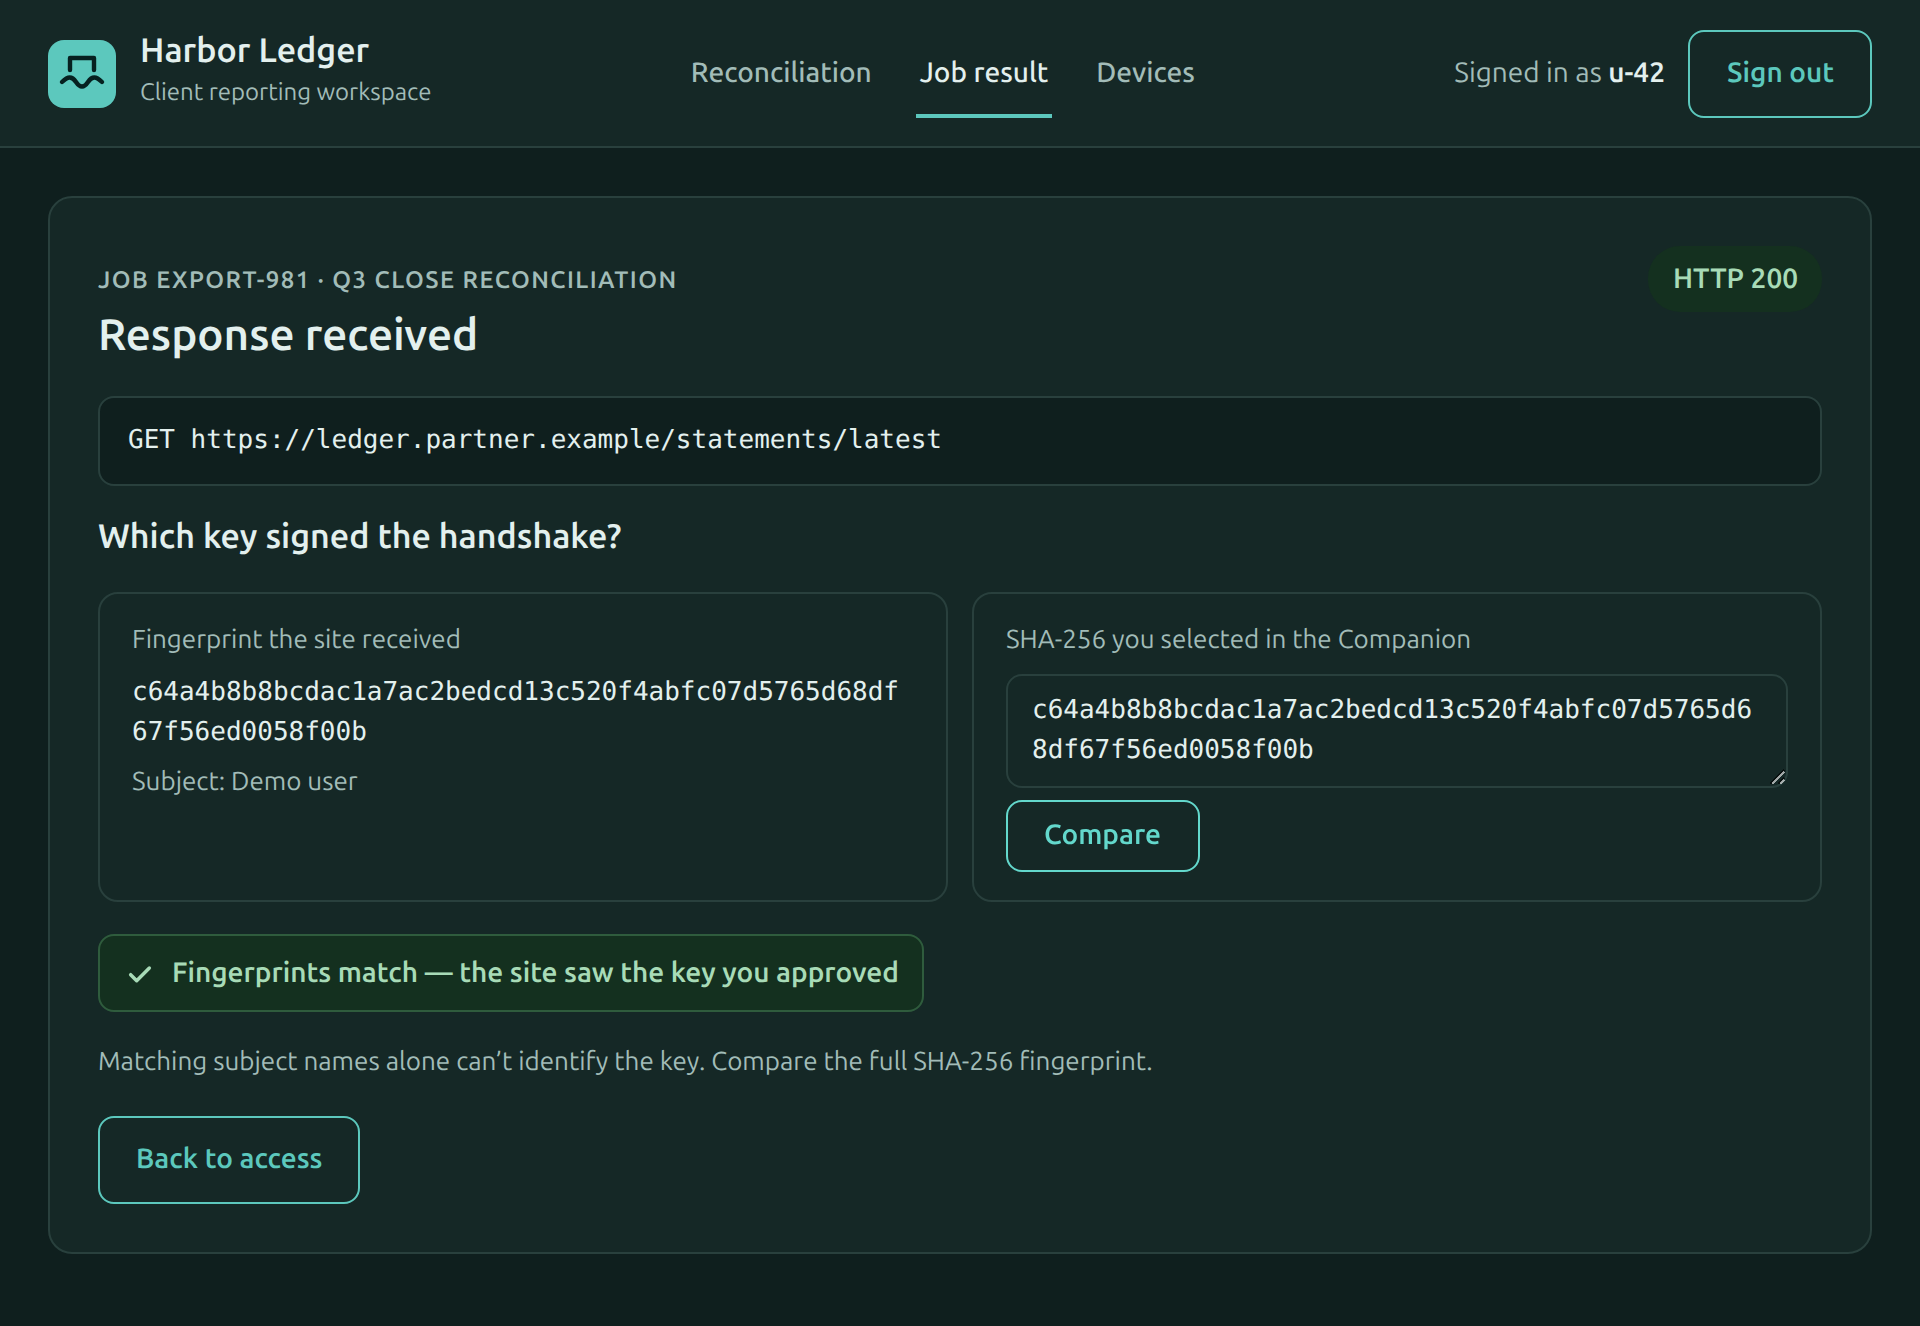
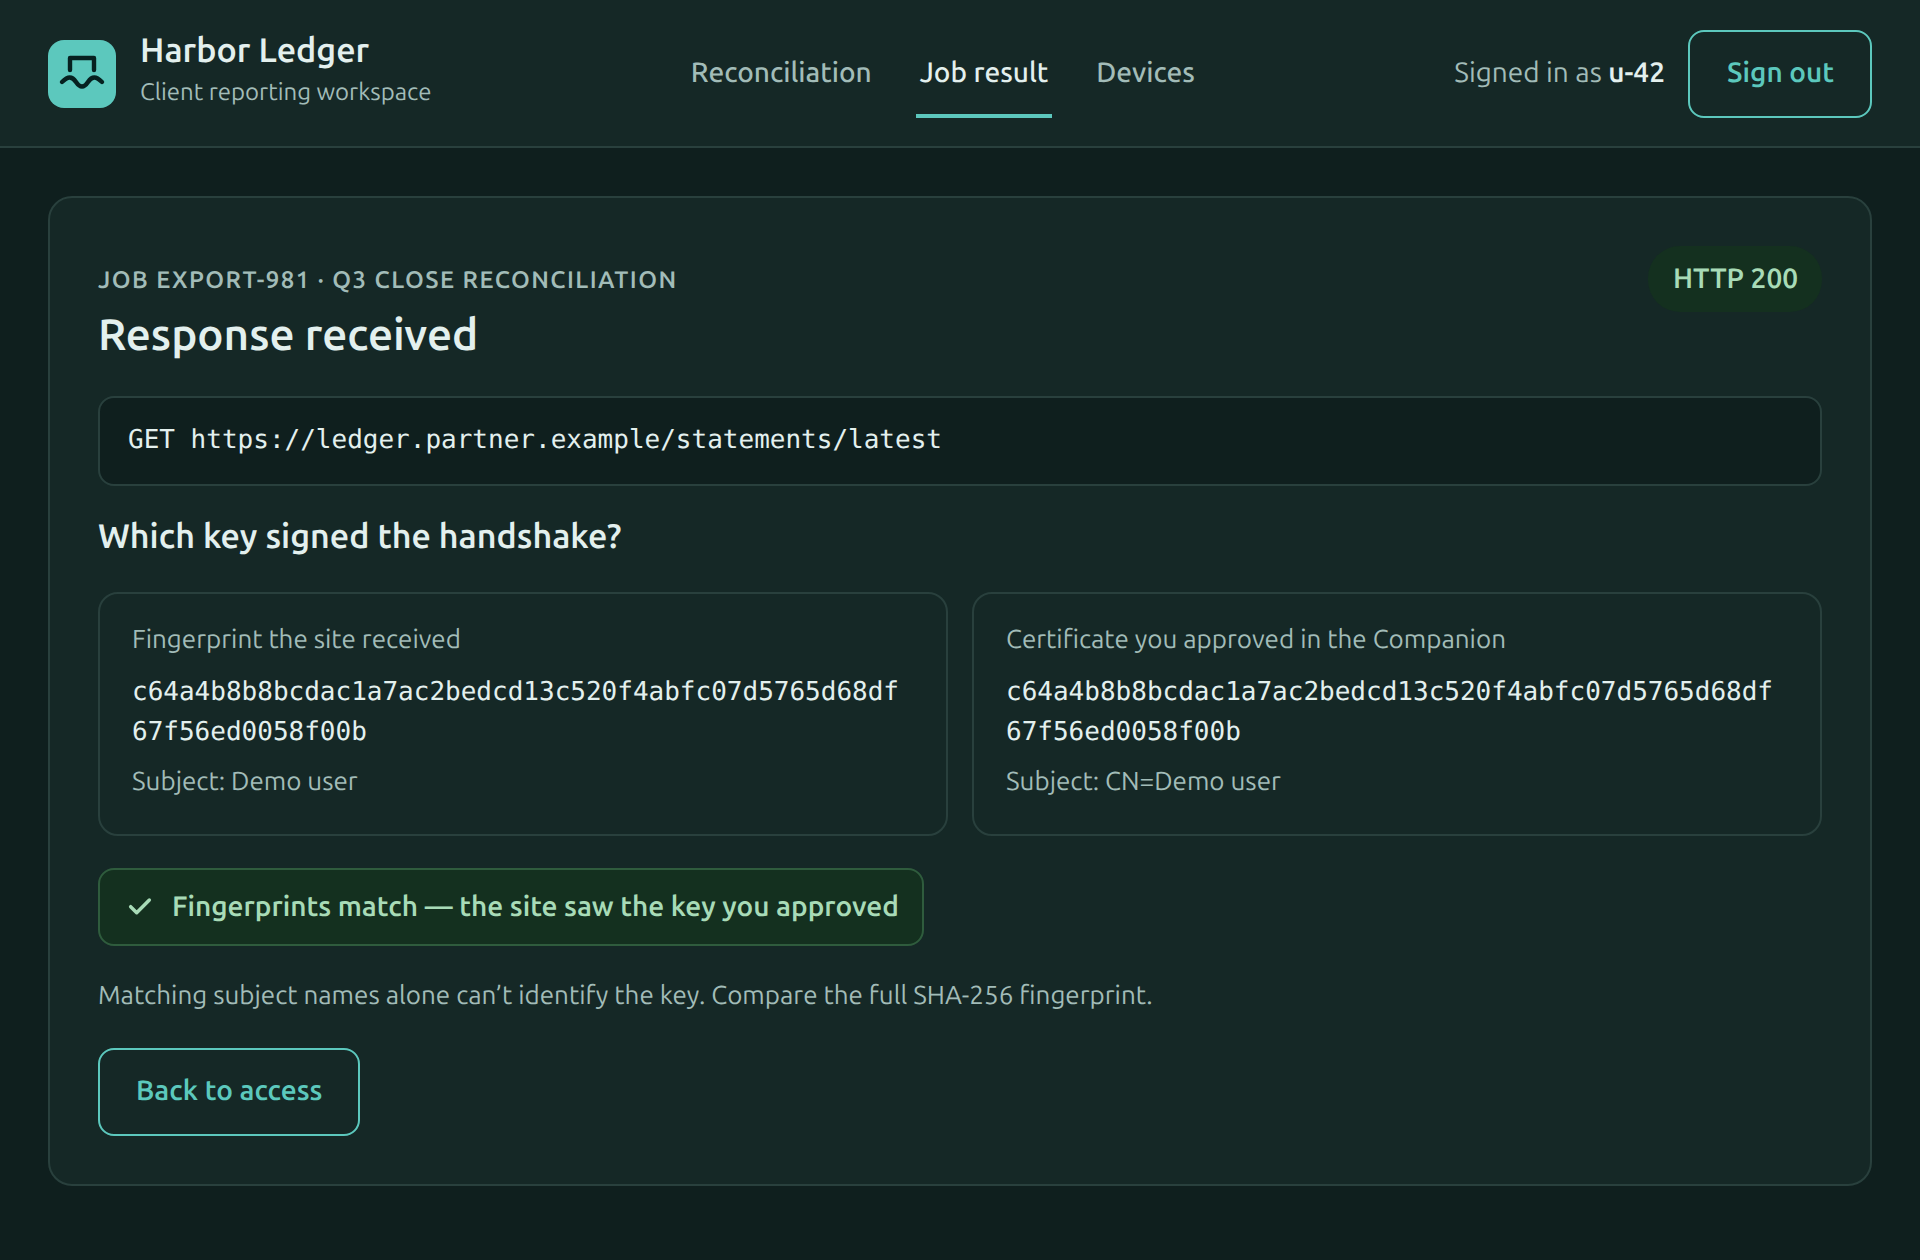
feat(demo): The demo counts down to the grant deadline and checks the fingerprint itself
The Access approved page shows how long the grant has left, from the
status call's expires_at_ms. The Job result page compares the
fingerprint the site received with certificate.sha256 from the status
call and drops the paste box. The screenshot fixtures carry the new
fields, and the handbook shots are re-rendered. A page test drives the
site in Playwright's Chromium, which CI now installs before pnpm test.

Refs #12

diff --git a/examples/demo-integrator/test/page.test.js b/examples/demo-integrator/test/page.test.js
@@ -1,0 +1,81 @@
+// The demo page in Chromium, its /api routes answered from fixtures (as
+// scripts/capture_screenshots.mjs does), with the page clock fixed.
+import { after, before, test } from 'node:test';
+import assert from 'node:assert/strict';
+import { readFile } from 'node:fs/promises';
+import { chromium } from 'playwright';
+import { contentSecurityPolicy, files } from '../site-files.js';
+
+const PORTAL = 'https://portal.example';
+const DEMO_DIR = new URL('../', import.meta.url);
+const NOW = Date.parse('2026-11-17T18:39:41-05:00');
+const ID = '85b80155-ac10-487f-a024-5216ec7f8ced';
[2 lines of base64/hex data omitted]
+const session = { csrf: 'fixture', vapid: null, user: 'u-42', context: 'close-q3', title: 'Q3 close',
+  workload: 'export-981', workload_generation: 1, host: 'ledger.partner.example:443' };
+const approved = extra => ({ id: ID, state: 'approved', ready: true, upstream_mtls_accepted: true,
+  ingress_closed_count: 0, egress_closed_count: 0, ...extra });
+
+let browser;
+before(async () => { browser = await chromium.launch(); });
+after(async () => { await browser?.close(); });
+
+async function open(api, path) {
+  const context = await browser.newContext({ locale: 'en-US', timezoneId: 'America/New_York' });
+  const page = await context.newPage();
+  page.setDefaultTimeout(5000);
+  await page.clock.install({ time: NOW });
+  const replies = { session: () => session, devices: () => ({ devices: [] }), job: () => ({ result: null }), ...api };
+  await page.route(PORTAL + '/**', async route => {
+    const url = new URL(route.request().url());
+    const headers = { 'Content-Security-Policy': contentSecurityPolicy };
+    if (url.pathname.startsWith('/api/')) {
+      const reply = replies[url.pathname.slice(5)];
+      if (!reply) return route.fulfill({ status: 404, headers, json: {} });
+      return route.fulfill({ headers, json: reply() });
+    }
+    const file = files.get(url.pathname);
+    if (!file) return route.fulfill({ status: 404, headers });
+    await route.fulfill({ headers, contentType: file[1], body: await readFile(new URL(file[0], DEMO_DIR)) });
+  });
+  await page.goto(PORTAL + path);
+  return page;
+}
+
+test('the Access approved page counts down to the grant deadline', async () => {
+  const page = await open({ status: () => approved({ expires_at_ms: NOW + 14 * 60_000 + 30_000 }) },
+    '/#countersign=' + ID);
+  const ends = page.locator('#access-ends');
+  await ends.getByText('14:30 left').waitFor();
+  assert.match(await ends.innerText(), /6:54 PM/);
+  await page.clock.runFor(60_000);
+  await ends.getByText('13:30 left').waitFor();
+  await page.context().close();
+});
+
+const ran = fingerprint => () => ({ result: { url: 'https://ledger.partner.example/statements/latest', ok: true,
+  http_status: 200, fingerprint, subject: 'Demo user', error: null } });
+const certificate = { sha256: SHA256, subject: 'CN=Demo user', issuer: 'CN=Countersign demo client-ca',
+  not_after_ms: NOW + 86_400_000 };
+
+test('the Job result page compares the fingerprints without a paste box', async () => {
+  for (const [fingerprint, shown, hidden] of [[SHA256, '#match', '#mismatch'], [OTHER, '#mismatch', '#match']]) {
+    const page = await open({ status: () => approved({ expires_at_ms: NOW + 60_000, certificate }),
+      job: ran(fingerprint) }, '/job#countersign=' + ID);
+    await page.locator(shown).waitFor();
+    assert.equal(await page.locator(hidden).isVisible(), false, fingerprint);
+    assert.equal(await page.locator('textarea').count(), 0, 'no paste box');
+    assert.match(await page.locator('#job-approved').innerText(), /c64a\s*4b8b/);
+    await page.context().close();
+  }
+});
+
+test('the Job result page says when the approval has no certificate to compare', async () => {
+  const page = await open({ status: () => ({ id: ID, state: 'pending', ready: false }), job: ran(SHA256) },
+    '/job#countersign=' + ID);
+  await page.locator('#no-compare').waitFor();
+  assert.equal(await page.locator('#match').isVisible(), false);
+  assert.equal(await page.locator('#mismatch').isVisible(), false);
+  await page.context().close();
+});

diff --git a/examples/demo-integrator/site/app.js b/examples/demo-integrator/site/app.js
@@ -8,12 +8,19 @@ const widget = document.querySelector('countersign-widget');
 const PENDING_MS = 10 * 60 * 1000; // the Broker's deadline for a pending offer
 const REMEMBER = 'harbor-ledger-approval';
 const page = { session: null, devices: [], id: null, status: null, requestedAt: null,
-  revoked: false, renewal: false, justPaired: false, requestShown: false, timer: 0 };
+  revoked: false, renewal: false, justPaired: false, requestShown: false, timer: 0, tick: 0 };
 
 const show = msg => { $('message').textContent = msg; };
 const fill = (selector, value) => { for (const node of document.querySelectorAll(selector)) node.textContent = value; };
 const short = id => String(id).slice(0, 8);
 const clock = ms => new Date(ms).toLocaleTimeString([], { hour: 'numeric', minute: '2-digit' });
+const pad = n => String(n).padStart(2, '0');
+// Time left as h:mm:ss, or m:ss under an hour.
+function left(ms) {
+  const s = Math.max(0, Math.ceil(ms / 1000));
+  const h = Math.floor(s / 3600), m = Math.floor(s % 3600 / 60);
+  return (h ? h + ':' + pad(m) : m) + ':' + pad(s % 60);
+}
 
 async function post(path, body = {}) {
   const res = await fetch('/api/' + path, { method: 'POST', headers: { 'Content-Type': 'application/json',
@@ -112,10 +119,22 @@ function render() {
     forget.href = '/countersign/devices?pairing=' + encodeURIComponent(device.binding.pairing);
     forget.textContent = 'Forget Companion ' + short(device.binding.pairing) + ' and revoke its grants';
   }
+  renderDeadline(current);
   const [title, body] = ending(status?.state, host);
   $('ended-title').textContent = title;
   $('ended-body').textContent = body;
   renderDevices();
+}
+
+// The grant's approved deadline. The Broker's status says when it ends early.
+function renderDeadline(current) {
+  clearInterval(page.tick);
+  const until = current === 'active' ? page.status?.expires_at_ms : null;
+  $('access-ends-row').hidden = !until;
+  if (!until) return;
+  const show = () => { $('access-ends').textContent = left(until - Date.now()) + ' left · until ' + clock(until); };
+  show();
+  page.tick = setInterval(show, 1000);
 }
 
 function renderDevices() {
@@ -185,6 +204,14 @@ async function showJob() {
   }
   $('job-fingerprint').textContent = result.fingerprint;
   $('job-subject').textContent = 'Subject: ' + result.subject;
+  // The Broker's status names the certificate the user approved; compare it
+  // with the one the site received, so nobody has to copy a fingerprint.
+  const approved = page.status?.certificate;
+  $('job-approved').textContent = approved?.sha256 ?? '';
+  $('job-approved-subject').textContent = approved?.subject ? 'Subject: ' + approved.subject : '';
+  $('no-compare').hidden = !!approved;
+  $('match').hidden = !approved || approved.sha256 !== result.fingerprint;
+  $('mismatch').hidden = !approved || approved.sha256 === result.fingerprint;
 }
 
 async function load() {
@@ -228,13 +255,6 @@ $('pair').onsubmit = perform(async () => {
   render();
   show('Confirm the account in Countersign.');
 });
-$('compare').onsubmit = e => {
-  e.preventDefault();
-  const typed = $('selected').value.replace(/[^0-9a-f]/gi, '').toLowerCase();
-  const same = typed === $('job-fingerprint').textContent;
-  $('match').hidden = !same;
-  $('mismatch').hidden = same || !typed;
-};
 for (const button of document.querySelectorAll('[data-act=status]')) button.onclick = perform(refresh);
 document.querySelector('[data-act=renew]').onclick = perform(async () => {
   const { id } = await post('renew', { id: page.id });

diff --git a/examples/demo-integrator/site/index.html b/examples/demo-integrator/site/index.html
@@ -97,6 +97,7 @@
       <dl class="facts">
         <div><dt>Requested host</dt><dd class="mono" data-host></dd></div>
         <div><dt>Approval ID</dt><dd class="mono" data-approval></dd></div>
+        <div id="access-ends-row" hidden><dt>Access ends</dt><dd id="access-ends"></dd></div>
       </dl>
       <p class="muted">Your Companion shows the certificate, its SHA-256 fingerprint and when this approval ends.</p>
       <div class="actions">
@@ -150,14 +151,15 @@
           <span class="fp" id="job-fingerprint"></span>
           <span class="muted small" id="job-subject"></span>
         </div>
-        <form class="peer" id="compare">
-          <label class="muted small" for="selected">SHA-256 you selected in the Companion</label>
-          <textarea id="selected" name="selected" class="fp-input" rows="2" autocomplete="off" spellcheck="false" placeholder="Paste from the approval in your Companion"></textarea>
-          <button class="btn ghost small-btn">Compare</button>
-        </form>
+        <div class="peer">
+          <span class="muted small">Certificate you approved in the Companion</span>
+          <span class="fp" id="job-approved"></span>
+          <span class="muted small" id="job-approved-subject"></span>
+        </div>
       </div>
       <p class="verdict good" role="status" id="match" hidden><svg viewBox="0 0 24 24" aria-hidden="true"><path d="m5 12.5 4.5 4.5L19 7.5"/></svg>Fingerprints match — the site saw the key you approved</p>
       <p class="verdict bad" role="status" id="mismatch" hidden>These fingerprints differ. The site did not see the certificate you selected.</p>
+      <p class="muted" role="status" id="no-compare" hidden>This approval has no approved certificate to compare yet. Open it from the access page once you have approved it.</p>
       <p class="fine">Matching subject names alone can’t identify the key. Compare the full SHA-256 fingerprint.</p>
     </div>
     <div class="actions">

diff --git a/examples/demo-integrator/site/site.css b/examples/demo-integrator/site/site.css
@@ -59,7 +59,6 @@ button:focus-visible, a:focus-visible, input:focus-visible, textarea:focus-visib
 .btn.ghost { background: transparent; color: var(--brand); }
 .btn.danger { background: transparent; border-color: var(--bad-line); color: var(--bad-ink); }
 .btn:disabled { opacity: .55; cursor: default; }
-.small-btn { min-height: 36px; align-self: flex-start; }
 
 .card { background: var(--surface); border: 1px solid var(--line); border-radius: 12px; padding: 24px; }
 .stack { display: flex; flex-direction: column; gap: 16px; }
@@ -118,7 +117,6 @@ countersign-widget { --countersign-font: var(--sans); }
 .pair-cards { display: grid; grid-template-columns: repeat(auto-fit, minmax(260px, 1fr)); gap: 12px; }
 .peer { padding: 14px 16px; border-radius: 10px; border: 1px solid var(--line); display: flex; flex-direction: column; gap: 6px; }
 .fp { font: 400 13px/1.5 var(--mono); word-break: break-all; }
-.fp-input { font: 400 13px/1.5 var(--mono); padding: 8px 12px; resize: vertical; word-break: break-all; }
 .verdict { display: inline-flex; align-items: center; gap: 8px; align-self: flex-start; padding: 8px 12px; border-radius: 8px;
   border: 1px solid; font-size: 14px; font-weight: 600; }
 .verdict svg { width: 16px; height: 16px; fill: none; stroke: currentColor; stroke-width: 2.6; stroke-linecap: round; stroke-linejoin: round; }

diff --git a/scripts/annotate_screenshots.py b/scripts/annotate_screenshots.py
@@ -85,12 +85,13 @@ CALLOUTS: dict[str, tuple[str, list[tuple[str, ...]]]] = {
     ]),
     "access-active.png": ("access-active.png", [
         ("progress", "Status from the Broker", "above-end"),
+        ("ends", "Grant deadline from the Broker", "right"),
     ]),
     "access-ended.png": ("access-ended.png", [
         ("again", "Starts a fresh approval", "right"),
     ]),
     "job-result.png": ("job-result.png", [
-        ("match", "Same SHA-256 as the approval", "right"),
+        ("match", "Same SHA-256 as the approval, from the Broker", "right"),
     ]),
 }
 

diff --git a/docs/integrate.md b/docs/integrate.md
@@ -70,12 +70,12 @@ The widget draws only the pairing, request and launch controls in its own Counte
 
 ## Show progress and end access
 
-Query `status` with the session-derived user ID and the approval ID. Show “Approved” for a committed decision, “Ready for handshakes” when `ready` is true, and “Upstream accepted mTLS” only after `upstream_mtls_accepted` is true. Closing the Companion can leave an existing leased connection usable until its authority expires. A fresh handshake needs the winning Companion online. [Status fields and failure handling](reference/api.md#read-approval-status)
+Query `status` with the session-derived user ID and the approval ID. Show “Approved” for a committed decision, “Ready for handshakes” when `ready` is true, and “Upstream accepted mTLS” only after `upstream_mtls_accepted` is true. While the grant is active, `expires_at_ms` gives the deadline the user approved, so the page can count down to it. Closing the Companion can leave an existing leased connection usable until its authority expires. A fresh handshake needs the winning Companion online. [Status fields and failure handling](reference/api.md#read-approval-status)
 
-![The demo Integrator's access page with the three progress steps Approved, Ready for handshakes and Upstream accepted mTLS, and Renew and Revoke access controls.](assets/screenshots/access-active.png#gh-light-mode-only)![The demo Integrator's access page with the three progress steps Approved, Ready for handshakes and Upstream accepted mTLS, and Renew and Revoke access controls.](assets/screenshots/access-active-dark.png#gh-dark-mode-only)
+![The demo Integrator's access page with the three progress steps Approved, Ready for handshakes and Upstream accepted mTLS, a countdown to when access ends, and Renew and Revoke access controls.](assets/screenshots/access-active.png#gh-light-mode-only)![The demo Integrator's access page with the three progress steps Approved, Ready for handshakes and Upstream accepted mTLS, a countdown to when access ends, and Renew and Revoke access controls.](assets/screenshots/access-active-dark.png#gh-dark-mode-only)
 
 Retire the Workload when the job exits. Close the Context when the reconciliation itself ends. To withdraw one grant earlier, revoke its approval ID. After a denial, expiry or revocation, say how access ended and offer a fresh request.
 
 ![The demo Integrator's page after revocation, explaining that open connections close by their lease deadline and pointing to the widget's Request access button for a fresh approval.](assets/screenshots/access-ended.png#gh-light-mode-only)![The demo Integrator's page after revocation, explaining that open connections close by their lease deadline and pointing to the widget's Request access button for a fresh approval.](assets/screenshots/access-ended-dark.png#gh-dark-mode-only)
 
- In the demo, the upstream requires a client certificate and returns the leaf fingerprint it actually received. Compare it with the identity selected in the Companion. [Demo upstream](https://github.com/zeroae/countersign/blob/fbb5aa7c951f8b70a238f3351140aa44a6184adf/examples/demo-integrator/upstream.js)
+ In the demo, the upstream requires a client certificate and returns the leaf fingerprint it actually received. Compare it with `certificate.sha256` from `status`, the certificate the user selected in the Companion; the demo's Job result page does this. [Demo upstream](https://github.com/zeroae/countersign/blob/fbb5aa7c951f8b70a238f3351140aa44a6184adf/examples/demo-integrator/upstream.js)

diff --git a/docs/try.md b/docs/try.md
@@ -43,9 +43,9 @@ Read **Integrator**, **Account**, **Context**, **Requested host** and **Approval
[1 lines of base64/hex data omitted]
 ```
 
-Each launch creates fresh certificates. Compare the response to the fingerprint you selected in **your** run. Matching subject names alone cannot identify the key that signed the handshake. The launcher also hands the result to the Integrator: open **Job result** on the demo page, paste the SHA-256 from the approval in your Companion and choose **Compare**.
+Each launch creates fresh certificates. Compare the response to the fingerprint you selected in **your** run. Matching subject names alone cannot identify the key that signed the handshake. The launcher also hands the result to the Integrator: open **Job result** on the demo page. It compares the fingerprint the site received with the certificate you approved, which the Integrator reads from the Broker's approval status.
 
-![Harbor Ledger's job result page showing the fingerprint the site received and a confirmation that it matches the pasted SHA-256 of the approved certificate.](assets/screenshots/job-result.png#gh-light-mode-only)![Harbor Ledger's job result page showing the fingerprint the site received and a confirmation that it matches the pasted SHA-256 of the approved certificate.](assets/screenshots/job-result-dark.png#gh-dark-mode-only)
+![Harbor Ledger's job result page showing the fingerprint the site received and the certificate approved in the Companion, and a confirmation that the two SHA-256 fingerprints match.](assets/screenshots/job-result.png#gh-light-mode-only)![Harbor Ledger's job result page showing the fingerprint the site received and the certificate approved in the Companion, and a confirmation that the two SHA-256 fingerprints match.](assets/screenshots/job-result-dark.png#gh-dark-mode-only)
 
 ## End access
 
